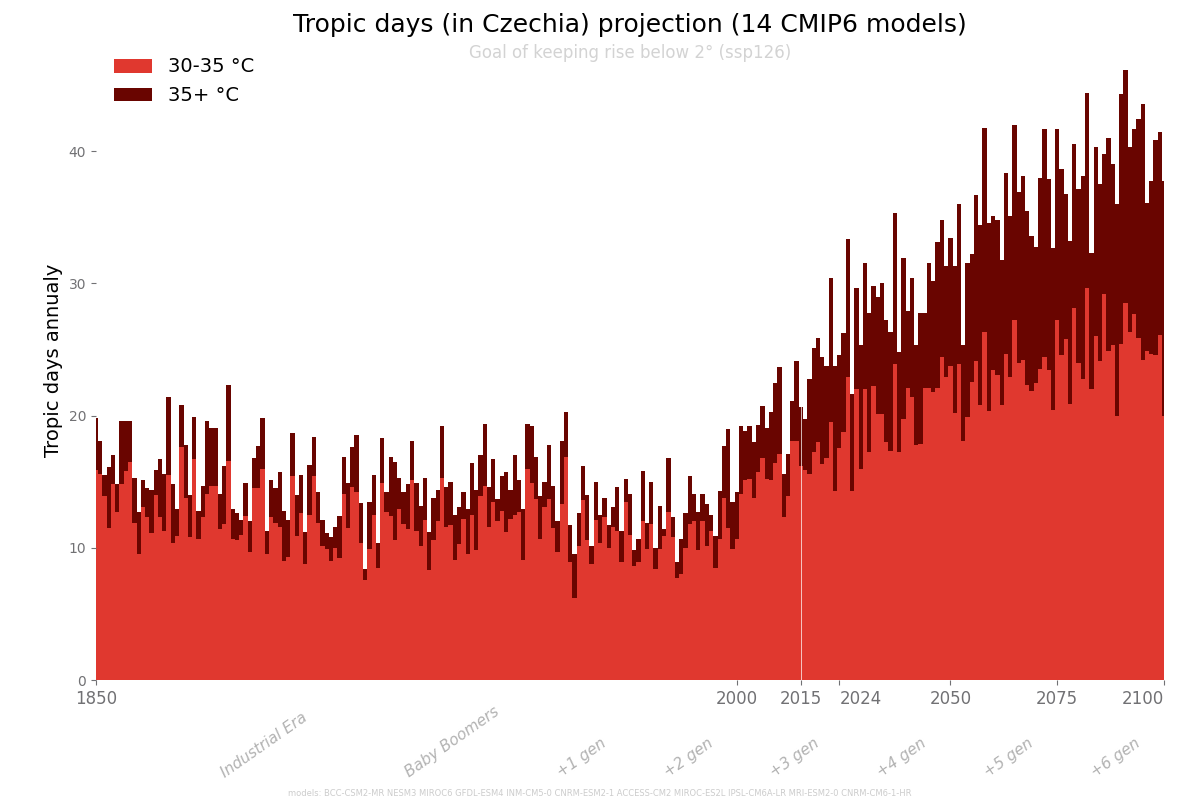
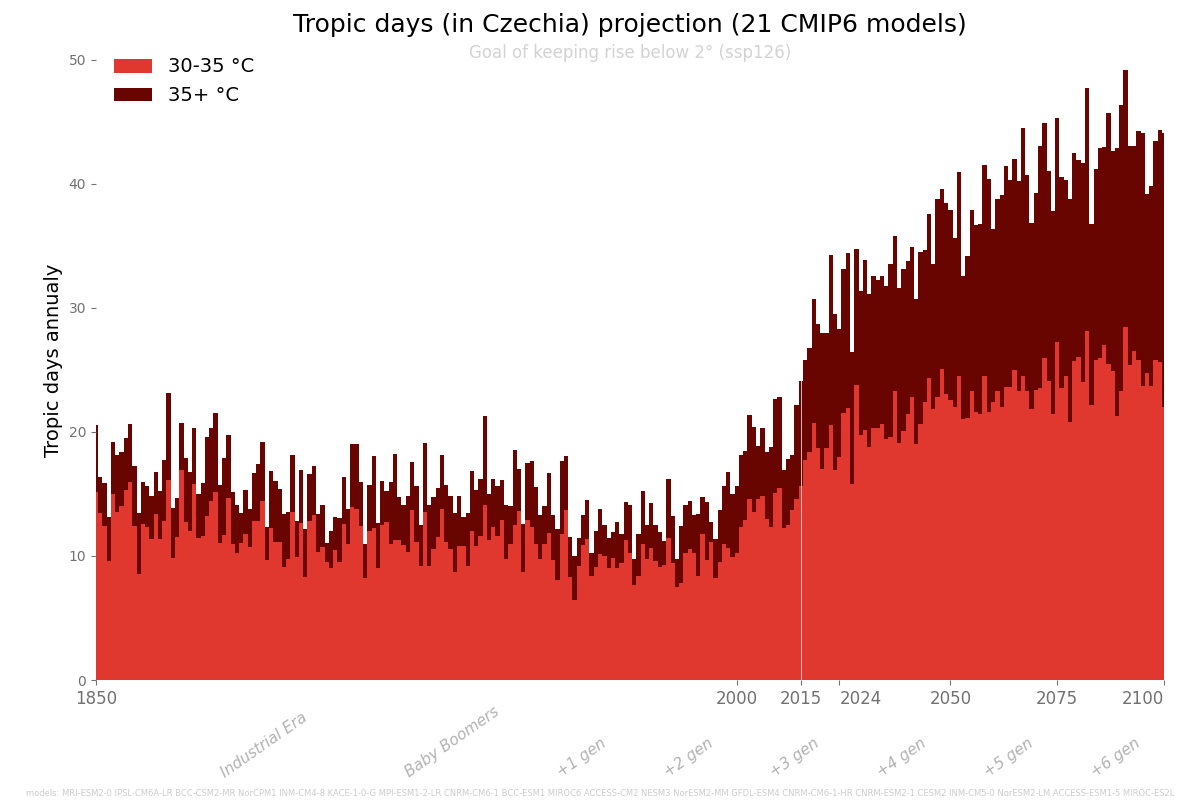
more max temp daily models visualized

diff --git a/ClimateProjections.py b/ClimateProjections.py
@@ -14,9 +14,9 @@
 
 # WHAT to plot
 variable = 'temperature'
-#variable = 'max_temperature'  
+variable = 'max_temperature'  
 #variable = 'discovery'
-stacked = False # aggregate into buckets
+stacked = True # aggregate into buckets
 reaggregate = False # compute aggregations regardles if they already exist
 
 #variable = 'history' # not working yet: https://web.archive.org/web/20240516185454/https://cds.climate.copernicus.eu/cdsapp#!/dataset/reanalysis-era5-land?tab=form
@@ -207,8 +207,9 @@ try:
     # COUNTS IN BUCKETS
     chart = visualizations.Charter(data_ds_filtered, variable=variable)
 
-    if variable == 'max_temperature':    
-      chart.stack(title=f'Tropic days (in Czechia) projection ({len(models)} CMIP6 models)', ylabel='Tropic days annualy', marker=forecast_from)
+    if variable == 'max_temperature':
+      model_count = set(data_ds_filtered.model.values.flat)
+      chart.stack(title=f'Tropic days (in Czechia) projection ({len(model_count)} CMIP6 models)', ylabel='Tropic days annualy', marker=forecast_from)
   
   else: 
     if variable == 'discovery':
